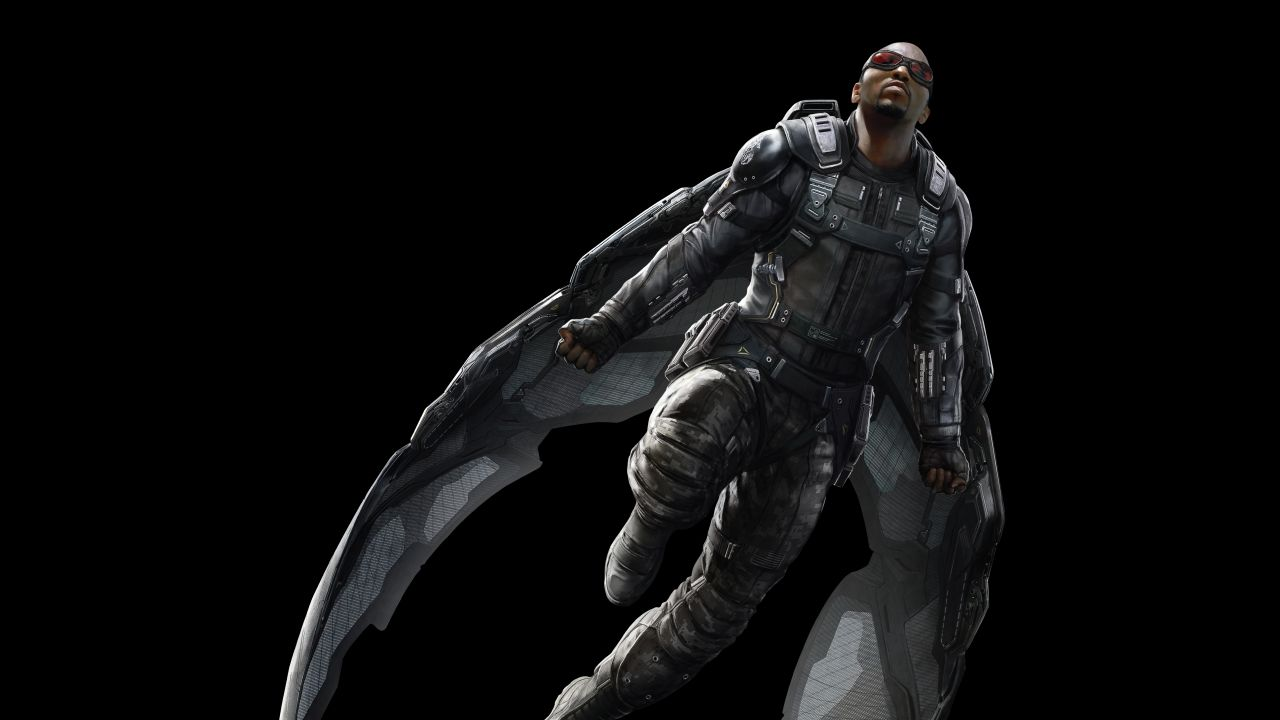
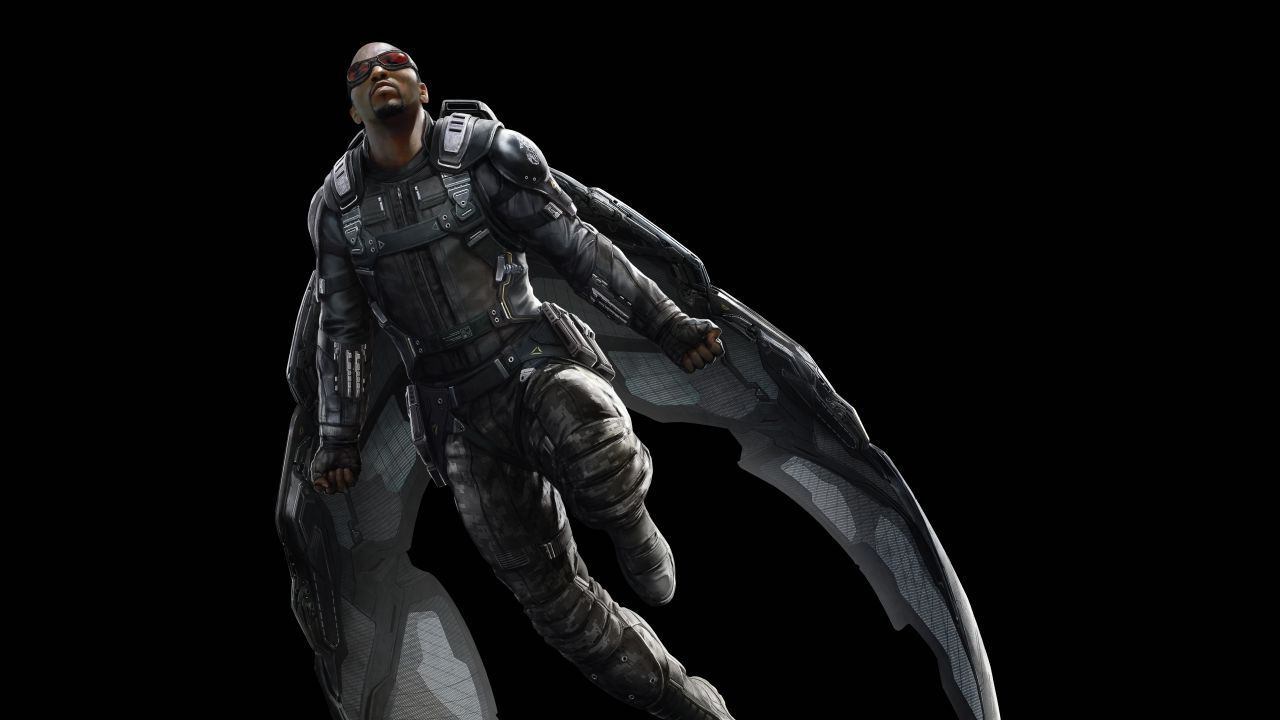
Falcon added

Changed region(s): [[0.2188, 0.0611, 0.7812, 1.0]]

diff --git a/App.js b/App.js
@@ -12,11 +12,27 @@ if ( Platform.OS === 'android' ){
   UIManager.setLayoutAnimationEnabledExperimental(true);
 }
 
+// const testCharacter = {
+//       name: 'Iron Man',
+//       identity: 'Anthony Edward “Tony” Stark',
+//       bio: '',
+//};
+// const testCharacter = {
+//       name: 'Black Widow',
+//       identity: 'Natasha Romanova',
+//       bio: '',
+// };
+// const testCharacter = {
+//       name: 'Captain America',
+//       identity: 'Steve Rogers',
+//       bio: '',
+// };
 const testCharacter = {
-      name: 'Iron Man',
-      identity: 'Anthony Edward “Tony” Stark',
+      name: 'Falcon',
+      identity: 'Samuel Thomas “Sam” Wilson',
       bio: '',
 };
+
 
 export default class App extends React.Component {
 

diff --git a/components/CharacterPage.js b/components/CharacterPage.js
@@ -65,7 +65,7 @@ export default class CharacterPage extends React.Component {
       		<View style={styles.container}>
       			<View style={styles.imageContainer}>
       				<Image
-      					source={ require( '../assets/glamour_CaptainAmerica.jpg')}
+      					source={ require( '../assets/glamour_Falcon.jpg')}
       					style={styles.image}
       				/>
       				{name &&

diff --git a/Data.js b/Data.js
@@ -38,6 +38,11 @@ export default Data = [
 		name: 'Mr. Fantastic',
 		identity: 'Reed Richards',
 		age: 48,
+	},
+	{
+		name: 'Falcon',
+      	identity: 'Samuel Thomas “Sam” Wilson',
+      	age: 43,
 	}
 ];
 	
